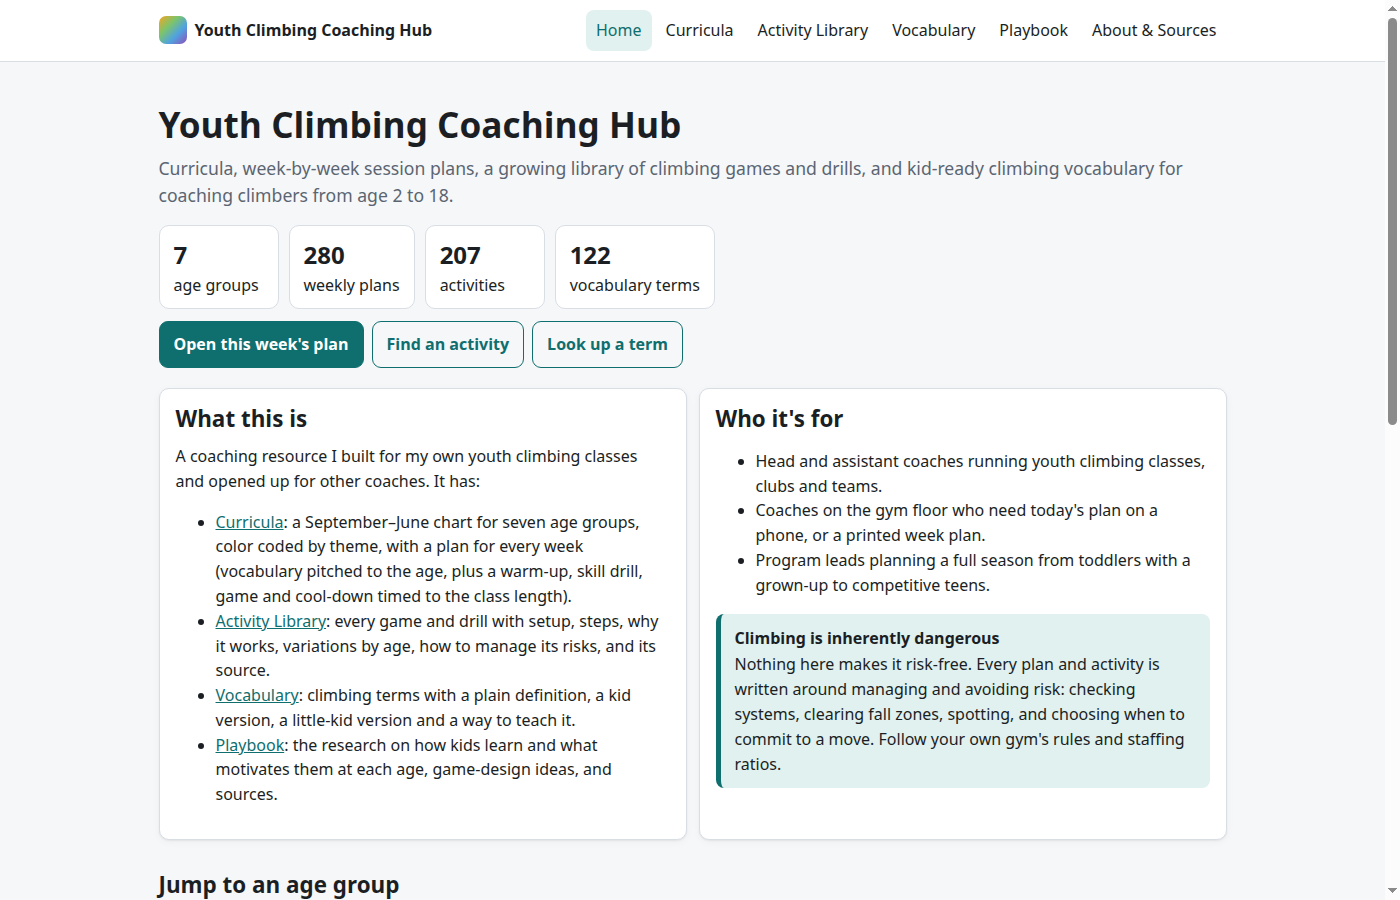
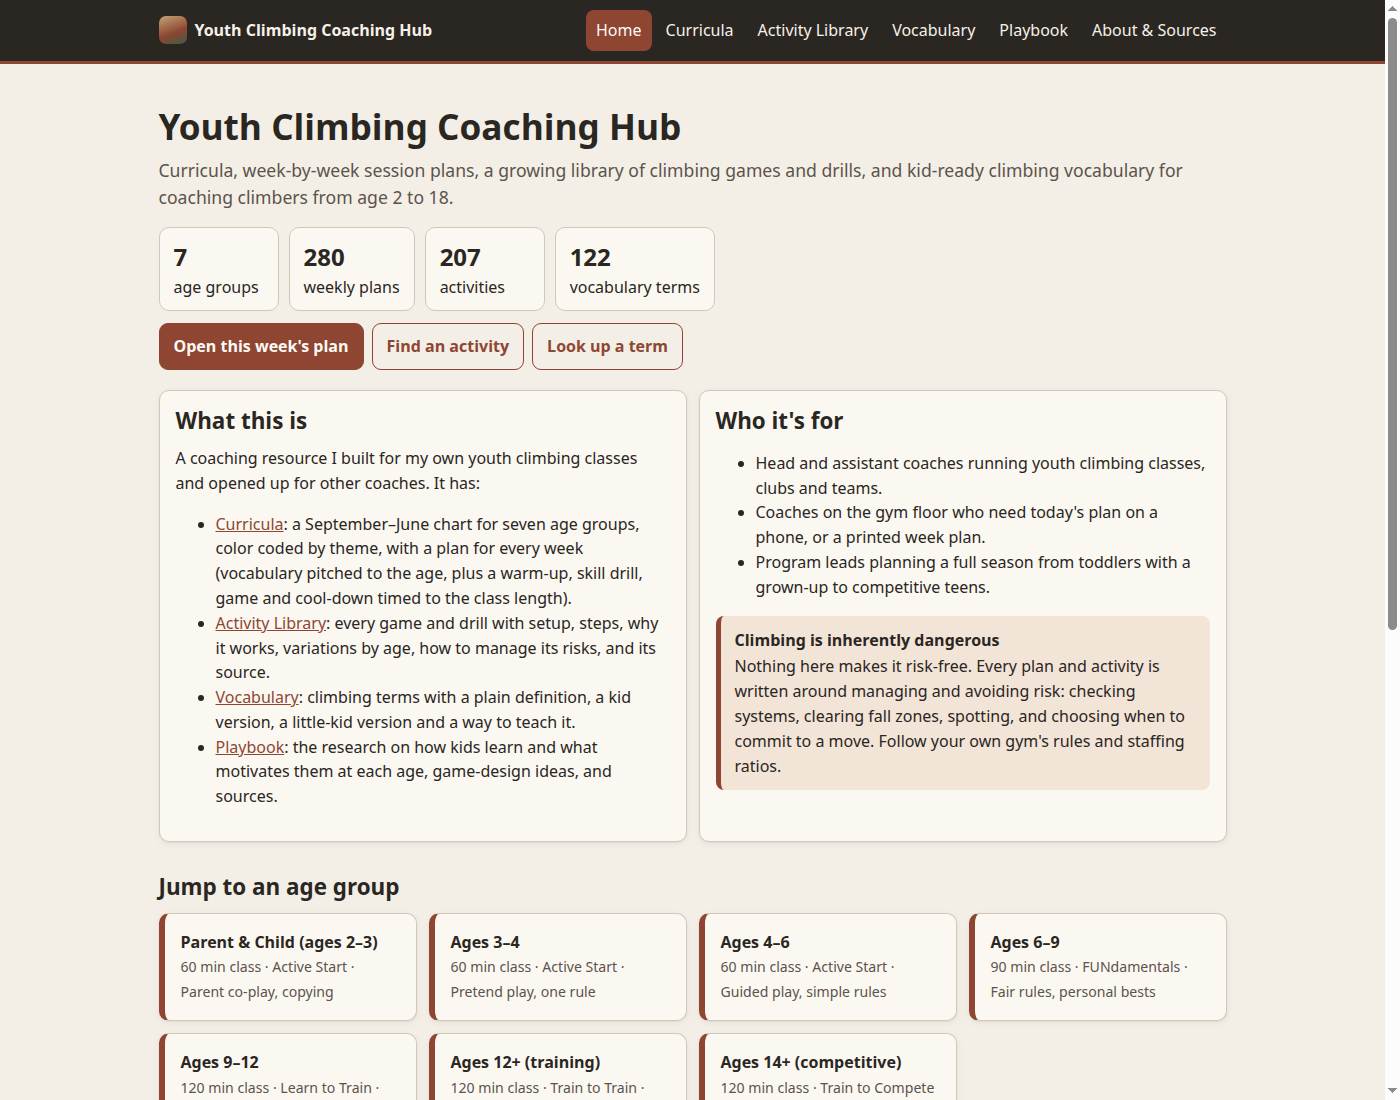
Give the site its own earthy palette and a neutral year chart.
Replace the previous theme colors with chalk, charcoal, clay, and sage. December and June are Review & Play rows with a quiet wash instead of a separate fill.

diff --git a/assets/css/style.css b/assets/css/style.css
@@ -1,29 +1,36 @@
 :root{
-  --bg:#f6f7f9;--surface:#fff;--surface2:#eef1f5;--text:#1b1f24;--muted:#5b6571;--line:#d9dee5;
-  --accent:#0f6e6e;--accent-ink:#fff;--accent-soft:#e1f1f0;--focus:#f5a623;
-  --rope:#F5A623;--tech:#7DC46B;--str:#4FA3E0;--event:#F2DC3A;--fun:#8E4FB8;
-  --radius:10px;--shadow:0 1px 2px rgba(0,0,0,.06),0 2px 8px rgba(0,0,0,.04);
+  --bg:#f3efe6;--surface:#fbf8f2;--surface2:#e6ddd0;--text:#2a2622;--muted:#5c534c;--line:#d3c8b8;
+  --header:#2a2622;--header-ink:#f6f1e8;
+  --accent:#8e4632;--accent-ink:#fff9f4;--accent-soft:#f3e4d8;--focus:#3e5c45;
+  --sage:#3e5c45;--review:#e7efe4;--sand:#c4a574;
+  --radius:10px;--shadow:0 1px 2px rgba(42,38,34,.06),0 2px 8px rgba(42,38,34,.05);
   --font:system-ui,-apple-system,"Segoe UI",Roboto,"Helvetica Neue",Arial,sans-serif;
 }
-@media (prefers-color-scheme:dark){:root{--bg:#12161b;--surface:#1a2027;--surface2:#232b34;--text:#e8ecf0;--muted:#a3adb8;--line:#2f3943;--accent:#4fc1b8;--accent-ink:#0b1a1a;--accent-soft:#1d3433;--shadow:none}}
+@media (prefers-color-scheme:dark){:root{
+  --bg:#1c1916;--surface:#26221e;--surface2:#332e29;--text:#f3efe6;--muted:#c9bbae;--line:#453e38;
+  --header:#141210;--header-ink:#f6f1e8;
+  --accent:#e0a07a;--accent-ink:#2a1812;--accent-soft:#3a2e28;--focus:#d7e3d4;
+  --sage:#c5d5c0;--review:#24302a;--sand:#c4a574;--shadow:none
+}}
 *{box-sizing:border-box}
 html{-webkit-text-size-adjust:100%}
 body{margin:0;font-family:var(--font);font-size:16px;line-height:1.55;color:var(--text);background:var(--bg)}
 a{color:var(--accent)}a:hover{text-decoration-thickness:2px}
 :focus-visible{outline:3px solid var(--focus);outline-offset:2px}
+.site-header :focus-visible{outline-color:#d7e3d4}
 h1,h2,h3,h4{line-height:1.25;margin:1.4em 0 .5em}h1{font-size:1.9rem;margin-top:.6em}h2{font-size:1.4rem}h3{font-size:1.15rem}h4{font-size:1rem}
 p{margin:.5em 0 .9em}
 .skip{position:absolute;left:-999px}.skip:focus{left:8px;top:8px;background:var(--surface);padding:8px;z-index:99}
 /* header */
-.site-header{position:sticky;top:0;z-index:20;background:var(--surface);border-bottom:1px solid var(--line)}
+.site-header{position:sticky;top:0;z-index:20;background:var(--header);color:var(--header-ink);border-bottom:3px solid var(--accent)}
 .site-header .bar{max-width:1100px;margin:0 auto;display:flex;align-items:center;gap:12px;padding:10px 16px}
-.brand{font-weight:700;color:var(--text);text-decoration:none;display:flex;align-items:center;gap:8px;white-space:nowrap}
-.brand-mark{width:28px;height:28px;border-radius:7px;background:linear-gradient(135deg,var(--rope),var(--tech) 35%,var(--str) 65%,var(--fun));display:inline-block}
+.brand{font-weight:700;color:var(--header-ink);text-decoration:none;display:flex;align-items:center;gap:8px;white-space:nowrap}
+.brand-mark{width:28px;height:28px;border-radius:7px;background:linear-gradient(160deg,var(--sand),var(--accent) 58%,var(--sage));display:inline-block}
 .nav{margin-left:auto;display:flex;gap:4px;flex-wrap:wrap}
-.nav a{padding:8px 10px;border-radius:8px;color:var(--text);text-decoration:none;font-weight:500}
-.nav a:hover{background:var(--surface2)}.nav a[aria-current="page"]{background:var(--accent-soft);color:var(--accent)}
-.nav-toggle{display:none;margin-left:auto;background:none;border:1px solid var(--line);border-radius:8px;padding:8px 10px;color:var(--text);font:inherit}
-@media (max-width:820px){.nav-toggle{display:block}.nav{display:none;position:absolute;left:0;right:0;top:100%;background:var(--surface);flex-direction:column;padding:8px 16px 14px;border-bottom:1px solid var(--line)}.nav.open{display:flex}.nav a{padding:12px}}
+.nav a{padding:8px 10px;border-radius:8px;color:var(--header-ink);text-decoration:none;font-weight:500}
+.nav a:hover{background:rgba(246,241,232,.1)}.nav a[aria-current="page"]{background:var(--accent);color:var(--accent-ink)}
+.nav-toggle{display:none;margin-left:auto;background:none;border:1px solid rgba(246,241,232,.4);border-radius:8px;padding:8px 10px;color:var(--header-ink);font:inherit}
+@media (max-width:820px){.nav-toggle{display:block}.nav{display:none;position:absolute;left:0;right:0;top:100%;background:var(--header);flex-direction:column;padding:8px 16px 14px;border-bottom:1px solid var(--line)}.nav.open{display:flex}.nav a{padding:12px}}
 /* layout */
 main{max-width:1100px;margin:0 auto;padding:12px 16px 48px}
 .narrow{max-width:820px}
@@ -42,7 +49,7 @@ main{max-width:1100px;margin:0 auto;padding:12px 16px 48px}
 .btn.ghost{background:transparent;color:var(--accent)}
 .btn-row{display:flex;flex-wrap:wrap;gap:8px;margin:12px 0}
 .age-card{display:block;text-decoration:none;color:var(--text);border-left:6px solid var(--accent)}
-.age-card:hover{border-color:var(--rope)}
+.age-card:hover{border-color:var(--sage)}
 .age-card b{display:block}
 /* tables */
 .table-wrap{overflow-x:auto;-webkit-overflow-scrolling:touch;margin:8px 0 16px;border:1px solid var(--line);border-radius:var(--radius);background:var(--surface)}
@@ -76,20 +83,27 @@ select,input[type=search]{font:inherit;font-size:16px;padding:10px 12px;border-r
 .item:hover{box-shadow:var(--shadow);border-color:var(--accent)}
 .item h3{margin:0 0 2px;font-size:1.05rem}
 .item .meta{font-size:.85rem;color:var(--muted)}
-.th-rope{border-left-color:var(--rope)}.th-tech{border-left-color:var(--tech)}.th-str{border-left-color:var(--str)}.th-event{border-left-color:var(--event)}.th-fun{border-left-color:var(--fun)}
-.swatch{display:inline-block;width:12px;height:12px;border-radius:3px;vertical-align:-1px;margin-right:6px}
-.legend{display:flex;flex-wrap:wrap;gap:6px 16px;margin:10px 0;font-size:.88rem;color:var(--muted)}
-/* chart */
-.chart{display:grid;grid-template-columns:.6fr 1.2fr 1.6fr 1.6fr;gap:3px;font-size:.9rem}
-.chart .h{font-weight:600;color:var(--muted);text-align:center;padding:4px 0;font-size:.82rem}
-.chart .c{padding:6px 8px;border-radius:4px;display:flex;align-items:center;justify-content:center;text-align:center;color:#1a1a1a;cursor:pointer}
-.chart .c.fun{color:#fff}.chart .c.m{font-weight:700}.chart .c.t{font-weight:600}
-.chart .c.sel{outline:3px solid var(--text);outline-offset:-3px}
-@media (max-width:600px){.chart{font-size:.78rem;grid-template-columns:.55fr 1fr 1.4fr 1.3fr}.chart .c{padding:5px 4px}}
+.th-rope,.th-tech,.th-str,.th-event{border-left-color:var(--accent)}.th-fun{border-left-color:var(--sage)}
+.swatch{display:inline-block;width:12px;height:12px;border-radius:3px;vertical-align:-1px;margin-right:6px;background:var(--line)}
+.bg-fun.swatch,.swatch.bg-fun{background:var(--sage)}
+.legend,.theme-key{display:flex;flex-wrap:wrap;gap:6px 16px;margin:10px 0;padding:0;list-style:none;font-size:.88rem;color:var(--muted)}
+.theme-key .review-key{color:var(--sage);font-weight:650}
+/* chart: one neutral grid; Dec/Jun carry a quiet sage wash and label */
+.chart{display:grid;grid-template-columns:.7fr 1.3fr 1.6fr 1.6fr;gap:0;font-size:.9rem;border:1px solid var(--line);border-radius:var(--radius);overflow:hidden;background:var(--surface)}
+.chart .h{font-weight:600;color:var(--muted);text-align:center;padding:8px 6px;font-size:.82rem;background:var(--surface2);border-bottom:1px solid var(--line)}
+.chart .c{padding:7px 8px;display:flex;align-items:center;justify-content:center;text-align:center;color:var(--text);background:var(--surface);cursor:pointer;border-top:1px solid var(--line);border-left:1px solid var(--line)}
+.chart .c.m{font-weight:700;flex-direction:column;gap:2px;border-left:0}
+.chart .c.t{font-weight:600}
+.chart .c.review{background:var(--review)}
+.chart .c.m.review{box-shadow:inset 3px 0 0 var(--sage)}
+.chart .review-tag{display:block;font-size:.68rem;font-weight:700;letter-spacing:.04em;text-transform:uppercase;color:var(--sage)}
+.chart .c.sel{outline:3px solid var(--accent);outline-offset:-3px}
+@media (max-width:600px){.chart{font-size:.78rem;grid-template-columns:.7fr 1.1fr 1.3fr 1.2fr}.chart .c{padding:5px 4px}}
 /* week */
-.banner{border-radius:10px;padding:12px 14px;margin:10px 0;color:#1a1a1a}
-.banner.fun{color:#fff}.banner .k{font-size:.85rem;font-weight:500}.banner .s{font-weight:700;font-size:1.15rem;margin-top:3px}
-.bg-rope{background:var(--rope)}.bg-tech{background:var(--tech)}.bg-str{background:var(--str)}.bg-event{background:var(--event)}.bg-fun{background:var(--fun)}
+.banner{border-radius:10px;padding:12px 14px;margin:10px 0;color:var(--text);background:var(--surface);border:1px solid var(--line);border-left:4px solid var(--accent)}
+.banner.review{background:var(--review);border-left-color:var(--sage)}
+.banner .k{font-size:.85rem;font-weight:500}.banner .s{font-weight:700;font-size:1.15rem;margin-top:3px}
+.bg-rope,.bg-tech,.bg-str,.bg-event{background:var(--surface2)}.bg-fun{background:var(--review)}
 .week-head{display:flex;flex-wrap:wrap;gap:10px;align-items:end;justify-content:space-between}
 .steps{counter-reset:s;list-style:none;padding:0;margin:8px 0}
 .steps li{counter-increment:s;position:relative;padding:6px 0 10px 40px}
@@ -111,7 +125,7 @@ section.group{border-top:1px solid var(--line);margin-top:28px}
 /* footer */
 .site-footer{border-top:1px solid var(--line);background:var(--surface);color:var(--muted);font-size:.88rem}
 .site-footer .bar{max-width:1100px;margin:0 auto;padding:18px 16px;display:flex;flex-wrap:wrap;gap:8px 20px;justify-content:space-between}
-.noscript,.error{background:#fde8e8;color:#7a1d1d;padding:12px;border-radius:8px}
+.noscript,.error{background:#f8e8e0;color:#6e3426;padding:12px;border-radius:8px}
 .print-only{display:none}
 /* print */
 @media print{
@@ -124,7 +138,7 @@ section.group{border-top:1px solid var(--line);margin-top:28px}
   .table-wrap{overflow:visible;border:1px solid #999}
   table{font-size:10pt}th,td{padding:5px 7px}
   tr,.banner,.item{break-inside:avoid}
-  .banner,.chart .c,.bg-rope,.bg-tech,.bg-str,.bg-event,.bg-fun,.swatch{-webkit-print-color-adjust:exact;print-color-adjust:exact}
+  .banner,.chart .c,.chart .c.review,.swatch{-webkit-print-color-adjust:exact;print-color-adjust:exact}
   body.print-week main>*:not(#week-section){display:none!important}
   body.print-week #week-section>*:not(#week-plan){display:none!important}
   body.print-week .print-only{display:block}

diff --git a/assets/js/curricula.js b/assets/js/curricula.js
@@ -25,7 +25,9 @@
     document.getElementById("intro").innerHTML = '<p class="lead">' + esc(P.summary) + "</p>";
     document.getElementById("how").innerHTML = "<ul>" + P.how.map(function (x) { return "<li>" + esc(x) + "</li>"; }).join("") + "</ul>" +
       '<div class="callout"><strong>' + esc(P.callout.lead) + "</strong>" + esc(P.callout.text) + "</div>" +
-      '<div class="legend">' + Object.keys(CAT).map(function (k) { return '<span><span class="swatch bg-' + k + '"></span>' + esc(CAT[k].label) + "</span>"; }).join("") + "</div>";
+      '<ul class="theme-key">' + Object.keys(CAT).map(function (k) {
+        return '<li' + (k === "fun" ? ' class="review-key"' : "") + ">" + esc(CAT[k].label) + "</li>";
+      }).join("") + "</ul>";
 
     var gsel = document.getElementById("group");
     gsel.innerHTML = cur.groups.map(function (g) { return '<option value="' + g.id + '">' + esc(g.name) + "</option>"; }).join("");
@@ -47,9 +49,9 @@
       var h = '<div class="h">Month</div><div class="h">Theme</div><div class="h">Skill Progression</div><div class="h">Weekly Structure</div>';
       var row = 2;
       g.months.forEach(function (m, mi) {
-        var span = m.w.length, cls = "c bg-" + m.c + (m.c === "fun" ? " fun" : "");
+        var span = m.w.length, review = m.c === "fun", cls = "c" + (review ? " review" : "");
         var sel = mi === state.m ? " sel" : "";
-        h += '<div class="' + cls + ' m' + sel + '" style="grid-column:1;grid-row:' + row + " / span " + span + '" data-m="' + mi + '" data-w="0" title="Open ' + esc(m.m) + ' week plans">' + esc(m.m) + "</div>";
+        h += '<div class="' + cls + ' m' + sel + '" style="grid-column:1;grid-row:' + row + " / span " + span + '" data-m="' + mi + '" data-w="0" title="Open ' + esc(m.m) + ' week plans">' + esc(m.m) + (review ? '<span class="review-tag">Review & Play</span>' : "") + "</div>";
         h += '<div class="' + cls + ' t" style="grid-column:2;grid-row:' + row + " / span " + span + '" data-m="' + mi + '" data-w="0">' + esc(m.theme) + "</div>";
         m.w.forEach(function (w, i) {
           var attrs = ' data-m="' + mi + '" data-w="' + i + '" style="grid-column:COL;grid-row:' + (row + i) + '"';
@@ -98,7 +100,7 @@
       var total = g.blocks.reduce(function (s, b) { return s + b.min; }, 0);
       var act = function (b) { return { W: r.warm, D: r.drill, G: r.game, C: r.cool }[b.slot]; };
       var h = '<div class="print-only"><strong>' + esc(H.SITE_TITLE) + "</strong> · " + esc(g.name) + " · " + g.minutes + " min class</div>";
-      h += '<div class="banner bg-' + m.c + (m.c === "fun" ? " fun" : "") + '"><div class="k">' + esc(m.m + " · Week " + (state.w + 1) + " · " + m.theme + " · school-year week " + r.n + " of 40") + '</div><div class="s">' + esc(r.skill) + '</div><div class="k">Session type: ' + esc(r.type) + "</div></div>";
+      h += '<div class="banner' + (m.c === "fun" ? " review" : "") + '"><div class="k">' + esc(m.m + " · Week " + (state.w + 1) + " · " + m.theme + " · school-year week " + r.n + " of 40") + '</div><div class="s">' + esc(r.skill) + '</div><div class="k">Session type: ' + esc(r.type) + "</div></div>";
       h += "<h3>Vocabulary this week</h3>" + H.table(["Term", "What it means (for you)", lvl === 2 ? "Say it like this (ages 2–6)" : "Say it like this (kid or teen version)"],
         r.vocab.map(function (v) { var x = cur.weekVocab[v] || ["", "", ""]; return [lv(v), esc(x[0]), esc(x[lvl])]; }), { raw: true });
       h += "<h3>Activities (" + total + " min)</h3>" + H.table(["Block", "Minutes", "Activity (Library name)", "Focus"],

diff --git a/about.html b/about.html
@@ -5,7 +5,7 @@
 <meta name="viewport" content="width=device-width, initial-scale=1">
 <title>About & Sources · Youth Climbing Coaching Hub</title>
 <meta name="description" content="About this youth climbing coaching resource, how the library is kept free of duplicates, and every source cited.">
-<meta name="theme-color" content="#0f6e6e">
+<meta name="theme-color" content="#8e4632">
 <link rel="icon" href="assets/favicon.svg" type="image/svg+xml">
 <link rel="stylesheet" href="assets/css/style.css">
 </head>
@@ -18,7 +18,7 @@
 <h1>About &amp; Sources</h1>
 <section><h2>About</h2>
 <p>I'm a youth climbing coach, and I built this hub as my own coaching resource. Other coaches can borrow, adapt and improve it.</p>
-<p>The age groups are Parent &amp; Child (ages 2–3), Ages 3–4, Ages 4–6, Ages 6–9, Ages 9–12, Ages 12+ (training) and Ages 14+ (competitive). Classes run 60 minutes (Parent &amp; Child, Ages 3–4, Ages 4–6), 90 minutes (Ages 6–9) and 120 minutes (Ages 9–12, Ages 12+ (training), Ages 14+ (competitive)). The curricula follow a month-by-month chart: four weeks a month, December and June as Find your Fun months, and one color per theme type.</p>
+<p>The age groups are Parent &amp; Child (ages 2–3), Ages 3–4, Ages 4–6, Ages 6–9, Ages 9–12, Ages 12+ (training) and Ages 14+ (competitive). Classes run 60 minutes (Parent &amp; Child, Ages 3–4, Ages 4–6), 90 minutes (Ages 6–9) and 120 minutes (Ages 9–12, Ages 12+ (training), Ages 14+ (competitive)). The curricula follow a month-by-month chart: four weeks a month, December and June as Review & Play months.</p>
 <p>Always follow your own gym's rules, staffing ratios and belay policies.</p>
 </section>
 <section><h2>Language: managing risk</h2><div id="lib-about"></div></section>

diff --git a/library.html b/library.html
@@ -5,7 +5,7 @@
 <meta name="viewport" content="width=device-width, initial-scale=1">
 <title>Activity Library · Youth Climbing Coaching Hub</title>
 <meta name="description" content="Searchable library of youth climbing games, drills, warm-ups and cool-downs with steps, variations by age, risk management and sources.">
-<meta name="theme-color" content="#0f6e6e">
+<meta name="theme-color" content="#8e4632">
 <link rel="icon" href="assets/favicon.svg" type="image/svg+xml">
 <link rel="stylesheet" href="assets/css/style.css">
 </head>

diff --git a/playbook.html b/playbook.html
@@ -5,7 +5,7 @@
 <meta name="viewport" content="width=device-width, initial-scale=1">
 <title>Playbook by Age Group · Youth Climbing Coaching Hub</title>
 <meta name="description" content="Research on how kids learn climbing at each age, game-based approaches, a comparison table, game-theory design lenses and sources.">
-<meta name="theme-color" content="#0f6e6e">
+<meta name="theme-color" content="#8e4632">
 <link rel="icon" href="assets/favicon.svg" type="image/svg+xml">
 <link rel="stylesheet" href="assets/css/style.css">
 </head>

diff --git a/curricula.html b/curricula.html
@@ -5,7 +5,7 @@
 <meta name="viewport" content="width=device-width, initial-scale=1">
 <title>Curricula by Age Group · Youth Climbing Coaching Hub</title>
 <meta name="description" content="September–June youth climbing curricula for seven age groups, with week-by-week vocabulary and timed activity plans.">
-<meta name="theme-color" content="#0f6e6e">
+<meta name="theme-color" content="#8e4632">
 <link rel="icon" href="assets/favicon.svg" type="image/svg+xml">
 <link rel="stylesheet" href="assets/css/style.css">
 </head>

diff --git a/index.html b/index.html
@@ -5,7 +5,7 @@
 <meta name="viewport" content="width=device-width, initial-scale=1">
 <title>Youth Climbing Coaching Hub</title>
 <meta name="description" content="Free youth climbing curricula, week-by-week plans, an activity library and climbing vocabulary for coaches of kids and teens, ages 2 to 18.">
-<meta name="theme-color" content="#0f6e6e">
+<meta name="theme-color" content="#8e4632">
 <link rel="icon" href="assets/favicon.svg" type="image/svg+xml">
 <link rel="stylesheet" href="assets/css/style.css">
 </head>

diff --git a/vocabulary.html b/vocabulary.html
@@ -5,7 +5,7 @@
 <meta name="viewport" content="width=device-width, initial-scale=1">
 <title>Vocabulary · Youth Climbing Coaching Hub</title>
 <meta name="description" content="Climbing vocabulary for coaching kids and teens, with plain, kid and little-kid definitions and how to teach each term.">
-<meta name="theme-color" content="#0f6e6e">
+<meta name="theme-color" content="#8e4632">
 <link rel="icon" href="assets/favicon.svg" type="image/svg+xml">
 <link rel="stylesheet" href="assets/css/style.css">
 </head>

diff --git a/activity.html b/activity.html
@@ -5,7 +5,7 @@
 <meta name="viewport" content="width=device-width, initial-scale=1">
 <title>Activity · Youth Climbing Coaching Hub</title>
 <meta name="description" content="A youth climbing activity: setup, steps, why it works, variations, risk management and source.">
-<meta name="theme-color" content="#0f6e6e">
+<meta name="theme-color" content="#8e4632">
 <link rel="icon" href="assets/favicon.svg" type="image/svg+xml">
 <link rel="stylesheet" href="assets/css/style.css">
 </head>

diff --git a/term.html b/term.html
@@ -5,7 +5,7 @@
 <meta name="viewport" content="width=device-width, initial-scale=1">
 <title>Term · Youth Climbing Coaching Hub</title>
 <meta name="description" content="A climbing vocabulary term with kid versions and how to teach it.">
-<meta name="theme-color" content="#0f6e6e">
+<meta name="theme-color" content="#8e4632">
 <link rel="icon" href="assets/favicon.svg" type="image/svg+xml">
 <link rel="stylesheet" href="assets/css/style.css">
 </head>

diff --git a/README.md b/README.md
@@ -28,7 +28,7 @@ Pages then serves this site at `https://caseycosley.github.io/ClimbingCoach/`. A
 | Path | What it is |
 |---|---|
 | `index.html` | Home: what this is, who it's for, the key principles, links to each age group |
-| `curricula.html` | Group dropdown, color-coded year chart, month and week pickers, vocabulary and timed activity plan for each week, Print this week |
+| `curricula.html` | Group dropdown, school-year chart, month and week pickers, vocabulary and timed activity plan for each week, Print this week |
 | `library.html` / `activity.html#<id>` | Activity search and filters / one activity's page (shareable URL) |
 | `vocabulary.html` / `term.html#<id>` | Glossary search and category filter / one term's page |
 | `playbook.html` | Research by age group, comparison table, game-theory section, sources |
